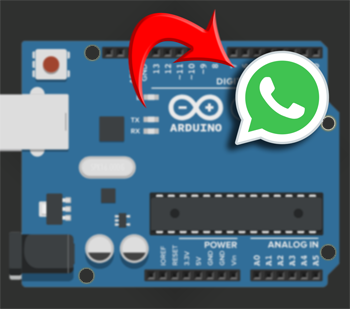
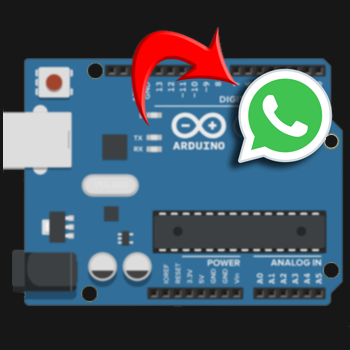
Responsividade portfolio

diff --git a/css/style.css b/css/style.css
@@ -426,11 +426,12 @@ float: right;
 
 #port_arduino{
     background: url(../imgs/portfolio/Arduino.png);
-    background-size: 350px 350px;
+    background-size: cover;
 }
 #port_wemos{
     background: url(../imgs/portfolio/WeMos.png);
-    background-size: 350px 350px;
+    background-size: cover;
+
 }
 
 
@@ -691,10 +692,6 @@ footer .redes_icon:hover{
 /* Responsividade - Mobile */
 @media only screen and (max-width: 768px){
 
-    .icon_overlay:hover{
-        padding-top: 40px;
-    }
-
     nav ul{
         text-align: center;
         padding: 12px 0px;
@@ -780,8 +777,16 @@ footer .redes_icon:hover{
         display: block;
         margin: 0 auto;
     }
+
+    .arduino_thumb{
+        width: 230px;
+        height: 230px;
+        position: relative;
+        margin: 30px 30px;
+    }
+
     .icon_overlay p{
-        font-size: 13px;
+        font-size: 12px;
     }
     .balao::after, .balao::before, .timeline::after{
         display: none;
